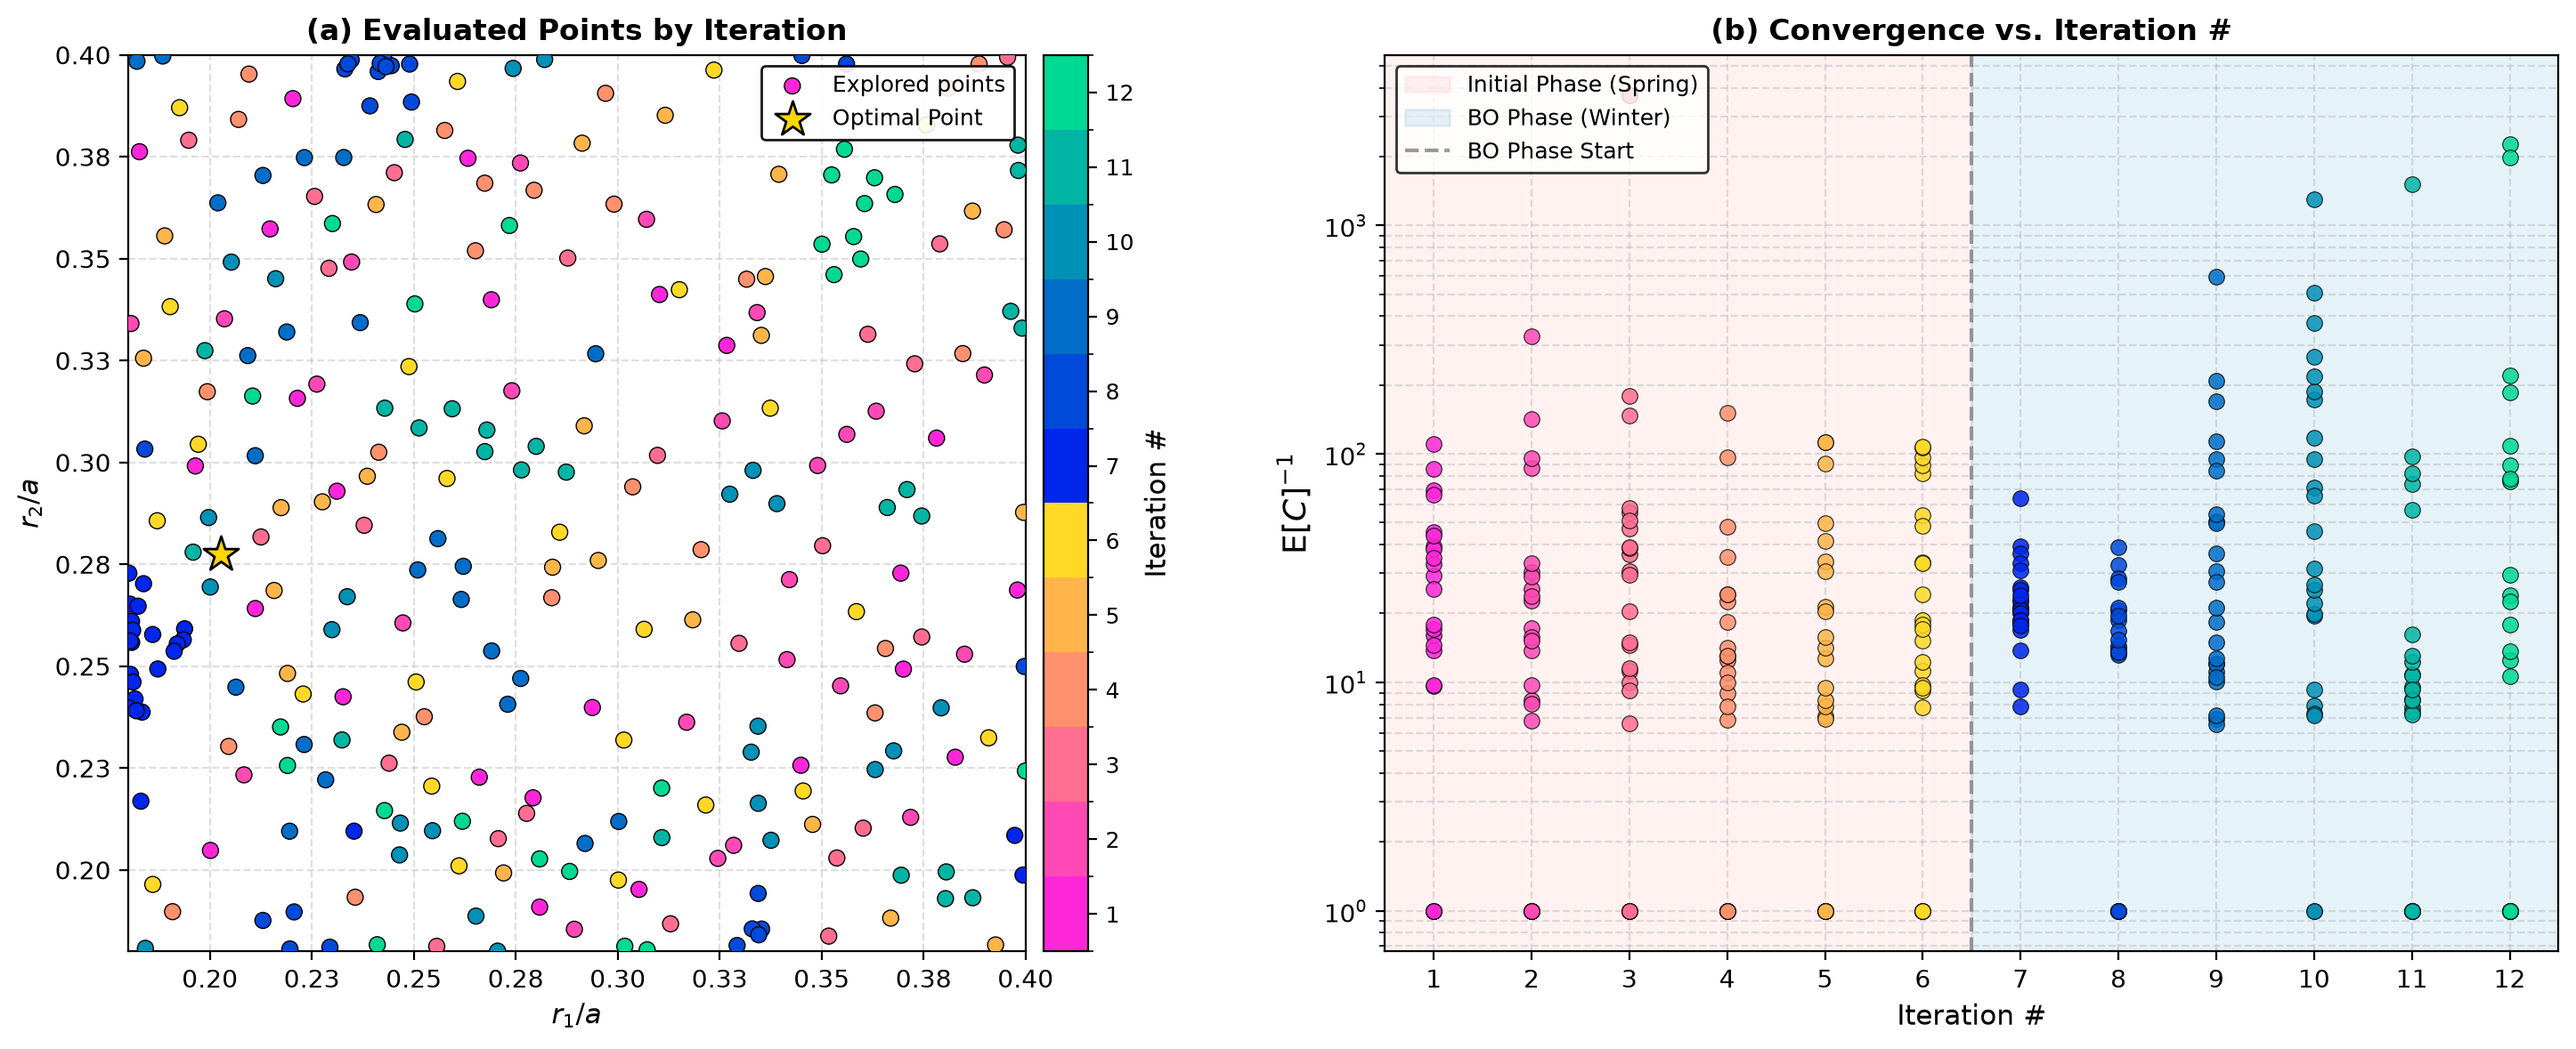
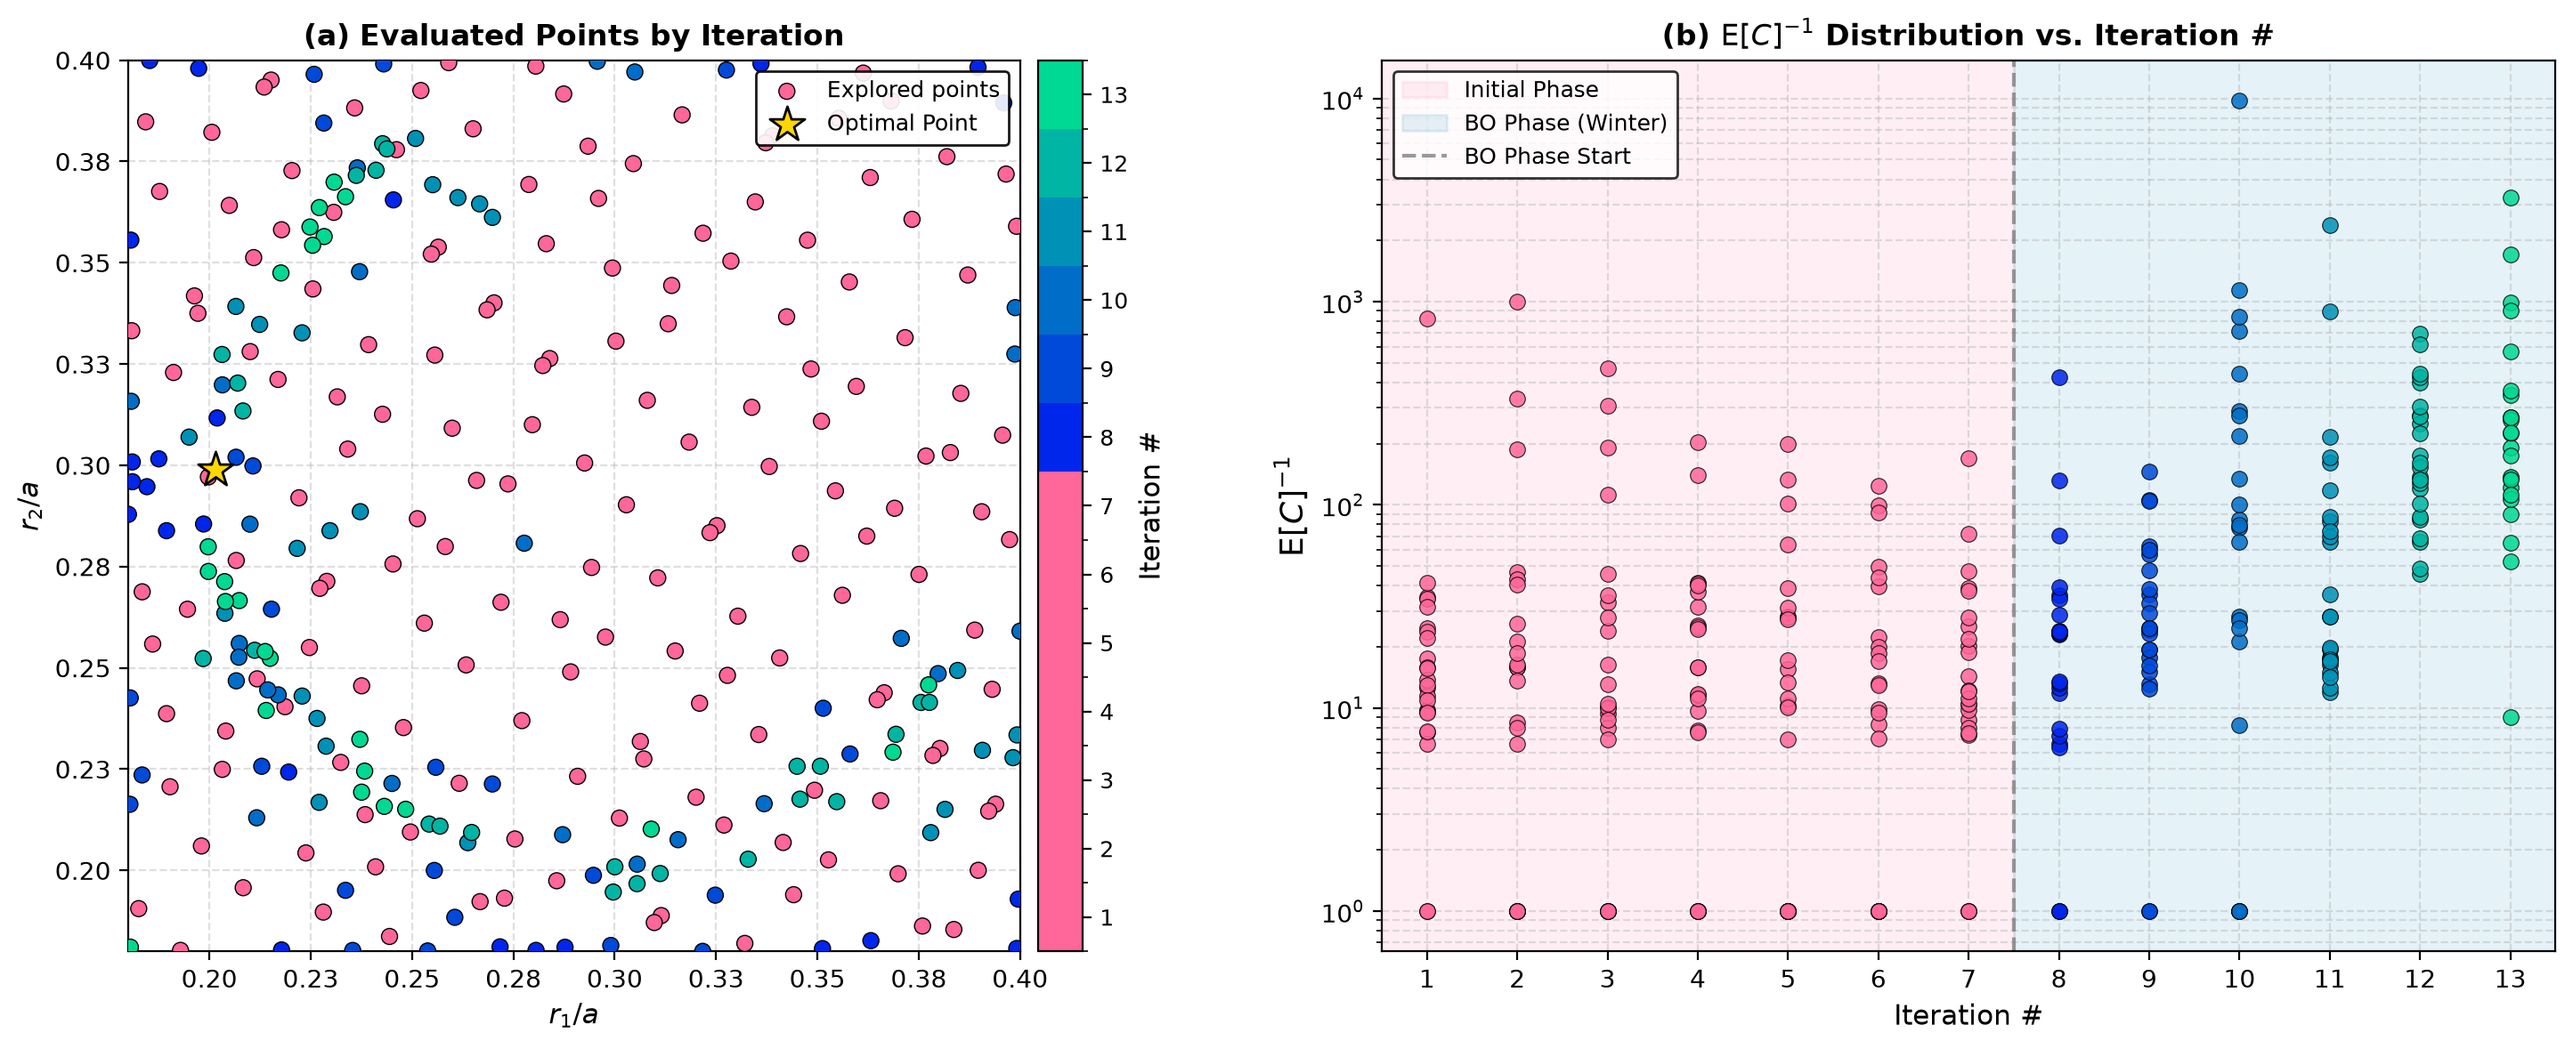
Unify initial points color in bo_convergence, remove redundant bo_iterations_map, update plot b title

Changed region(s): [[0.4983, 0.0, 0.9965, 0.9466], [0.0, 0.0, 0.4671, 0.9771], [0.7474, 0.9466, 0.7785, 0.9771]]

diff --git a/src/phc_nzi/bo.py b/src/phc_nzi/bo.py
@@ -894,7 +894,6 @@ class BayesianOptimizer:
         # Plot convergence curve, surrogate map, iterations map & group velocity map
         self._plot_convergence()
         self._plot_surrogate_map()
-        self._plot_iterations_map()
         self._plot_group_velocity_map()
 
         # Run final full k-path validation simulation
@@ -931,7 +930,7 @@ class BayesianOptimizer:
         n_initial_iters = max(initial_iters) if initial_iters else 1
         div_point_iter = n_initial_iters + 0.5
 
-        # Stack two colormaps: spring (initial sampling) + winter (active BO)
+        # Stack colors: single uniform color for initial sampling + winter colormap for active BO
         cmap_spring = plt.get_cmap("spring")
         cmap_winter = plt.get_cmap("winter")
 
@@ -941,10 +940,8 @@ class BayesianOptimizer:
         n_init = len(init_iters_list)
         n_bo = len(bo_iters_list)
 
-        if n_init == 1:
-            init_colors = [cmap_spring(0.5)]
-        else:
-            init_colors = [cmap_spring(v) for v in np.linspace(0.15, 0.85, n_init)]
+        single_init_color = cmap_spring(0.4)
+        init_colors = [single_init_color] * n_init
 
         if n_bo == 1:
             bo_colors = [cmap_winter(0.5)]
@@ -1042,7 +1039,7 @@ class BayesianOptimizer:
             ax1.legend(loc="upper left")
 
         # ---------------------------------------------------------
-        # Plot 2 (Right / (b)): Convergence vs. Iteration #
+        # Plot 2 (Right / (b)): E[C]^-1 Distribution vs. Iteration #
         # ---------------------------------------------------------
         for i, it in enumerate(unique_iters):
             mask = (iterations == it)
@@ -1050,15 +1047,15 @@ class BayesianOptimizer:
             it_foms = foms[mask]
             ax2.scatter([it] * len(it_foms), it_foms, color=c_it, s=40, edgecolors="black", linewidths=0.4, zorder=4, alpha=0.85)
 
-        # Background regions with subtle spring and winter tints
-        ax2.axvspan(min_iter - 0.5, div_point_iter, color=cmap_spring(0.5), alpha=0.10, label="Initial Phase (Spring)")
+        # Background regions with subtle initial and winter tints
+        ax2.axvspan(min_iter - 0.5, div_point_iter, color=single_init_color, alpha=0.10, label="Initial Phase")
         ax2.axvspan(div_point_iter, max_iter + 0.5, color=cmap_winter(0.5), alpha=0.10, label="BO Phase (Winter)")
         ax2.axvline(x=div_point_iter, color="gray", linestyle="--", alpha=0.8, label="BO Phase Start")
 
         ax2.set_yscale("log")
         ax2.set_xlabel("Iteration #", fontsize=11)
         ax2.set_ylabel(r"$\mathrm{E}[C]^{-1}$", fontsize=13)
-        ax2.set_title("(b) Convergence vs. Iteration #", fontsize=12, fontweight="bold")
+        ax2.set_title(r"(b) $\mathrm{E}[C]^{-1}$ Distribution vs. Iteration #", fontsize=12, fontweight="bold")
         ax2.set_xticks(np.arange(min_iter, max_iter + 1))
         ax2.set_xlim(min_iter - 0.5, max_iter + 0.5)
         ax2.grid(True, which="both", ls="--", alpha=0.4)
@@ -1269,147 +1266,7 @@ class BayesianOptimizer:
                 if verbose:
                     print(f"Note: Could not generate multi-dimensional surrogate plot: {e}")
 
-    def _plot_iterations_map(self, verbose: bool = True) -> None:
-        """
-        Generates and saves a standalone figure plotting evaluated parameter points
-        colored by Iteration / Generation # using a discrete colormap and discrete colorbar.
-        """
-        import matplotlib.colors as mcolors
-        from matplotlib.ticker import FormatStrFormatter
-        from mpl_toolkits.axes_grid1 import make_axes_locatable
 
-        if not hasattr(self.optimizer, "Xi") or not self.optimizer.Xi:
-            return
-
-        iterations_file = self.output_dir / "bo_iterations_map.png"
-
-        if len(self.param_names) == 2:
-            p1_name, p2_name = self.param_names[0], self.param_names[1]
-            b1 = self.param_bounds[0]
-            b2 = self.param_bounds[1]
-
-            Xi = np.array(self.optimizer.Xi)
-            yi = np.array(self.optimizer.yi)
-
-            generations_list = []
-            for idx, x_pt in enumerate(Xi):
-                matched_gen = 1
-                for r in self.records:
-                    r_pt = [r["params"][name] for name in self.param_names if name in r["params"]]
-                    if len(r_pt) == len(x_pt) and np.allclose(r_pt, x_pt, atol=1e-5):
-                        matched_gen = r.get("generation", 1)
-                        break
-                generations_list.append(matched_gen)
-
-            generations = np.array(generations_list)
-            unique_gens = sorted(list(set(generations)))
-            min_gen, max_gen = min(unique_gens), max(unique_gens)
-
-            # Determine divergence point (transition from initial sampling to active BO)
-            n_initial = self.opt_cfg.get("initial_points", 8)
-            initial_gens = [g for i, g in enumerate(generations_list) if i < n_initial]
-            n_initial_gens = max(initial_gens) if initial_gens else 1
-            div_point_gen = n_initial_gens + 0.5
-
-            # Stack two colormaps: spring (initial sampling) + winter (active BO)
-            cmap_spring = plt.get_cmap("spring")
-            cmap_winter = plt.get_cmap("winter")
-
-            init_gens_list = [g for g in unique_gens if g <= n_initial_gens]
-            bo_gens_list = [g for g in unique_gens if g > n_initial_gens]
-
-            n_init = len(init_gens_list)
-            n_bo = len(bo_gens_list)
-
-            if n_init == 1:
-                init_colors = [cmap_spring(0.5)]
-            else:
-                init_colors = [cmap_spring(v) for v in np.linspace(0.15, 0.85, n_init)]
-
-            if n_bo == 1:
-                bo_colors = [cmap_winter(0.5)]
-            elif n_bo > 1:
-                bo_colors = [cmap_winter(v) for v in np.linspace(0.15, 0.85, n_bo)]
-            else:
-                bo_colors = []
-
-            stacked_colors = init_colors + bo_colors
-            stacked_cmap = mcolors.ListedColormap(stacked_colors)
-            bounds_gen = np.arange(min_gen - 0.5, max_gen + 1.5, 1)
-            discrete_norm = mcolors.BoundaryNorm(bounds_gen, len(stacked_colors))
-
-            best_idx = int(np.argmin(yi))
-            best_x = Xi[best_idx]
-
-            p1_label = f"${p1_name[0]}_{{{p1_name[1:]}}}/a$" if len(p1_name) > 1 and p1_name[1:].isdigit() else f"${p1_name}/a$"
-            p2_label = f"${p2_name[0]}_{{{p2_name[1:]}}}/a$" if len(p2_name) > 1 and p2_name[1:].isdigit() else f"${p2_name}/a$"
-
-            fig, ax = plt.subplots(figsize=(7.5, 6.0))
-
-            sc = ax.scatter(
-                Xi[:, 0],
-                Xi[:, 1],
-                c=generations,
-                cmap=stacked_cmap,
-                norm=discrete_norm,
-                s=42,
-                edgecolors="black",
-                linewidths=0.5,
-                marker="o",
-                zorder=4,
-                label="Explored points",
-            )
-            ax.scatter(
-                best_x[0],
-                best_x[1],
-                c="gold",
-                edgecolors="black",
-                marker="*",
-                s=220,
-                zorder=6,
-                label="Optimal Point",
-            )
-
-            ax.set_xlabel(p1_label, fontsize=11)
-            ax.set_ylabel(p2_label, fontsize=11)
-            ax.set_title("Evaluated Points by Iteration", fontsize=12, fontweight="bold")
-            ax.set_xlim(float(b1[0]), float(b1[1]))
-            ax.set_ylim(float(b2[0]), float(b2[1]))
-            ax.set_aspect("equal", adjustable="box")
-            ax.grid(alpha=0.4, linestyle="--")
-            ax.xaxis.set_major_formatter(FormatStrFormatter('%.2f'))
-            ax.yaxis.set_major_formatter(FormatStrFormatter('%.2f'))
-
-            divider = make_axes_locatable(ax)
-            cax = divider.append_axes("right", size="5%", pad=0.1)
-            cbar = fig.colorbar(sc, cax=cax, ticks=np.arange(min_gen, max_gen + 1))
-            cbar.set_label("Iteration #", fontsize=11)
-            cbar.ax.tick_params(labelsize=9)
-
-            ax.legend(loc="upper right", facecolor="white", edgecolor="black", framealpha=0.9)
-
-            plt.tight_layout()
-            plt.savefig(iterations_file, dpi=200, bbox_inches="tight")
-            plt.close()
-            if verbose:
-                print(f"Saved iterations map plot to '{iterations_file}'")
-
-
-
-
-        else:
-            try:
-                from skopt.plots import plot_objective
-                fig, ax = plt.subplots(figsize=(10, 8))
-                plot_objective(self.optimizer, ax=ax)
-                plt.tight_layout()
-                plt.savefig(surrogate_file, dpi=200)
-                plt.close()
-                if verbose:
-                    print(f"Saved surrogate map plot to '{surrogate_file}'")
-            except Exception as e:
-                if verbose:
-                    print(f"Note: Could not generate multi-dimensional surrogate plot: {e}")
 
 
 
@@ -1684,7 +1541,6 @@ class BayesianOptimizer:
 
         self._plot_convergence()
         self._plot_surrogate_map(verbose=True)
-        self._plot_iterations_map(verbose=True)
         self._plot_group_velocity_map(verbose=True)
         print(f"Plotting complete! All figures saved inside '{self.output_dir}'")
 

diff --git a/README.md b/README.md
@@ -229,9 +229,8 @@ print("Optimal parameters:", results["optimal_parameters"])
 * **`bo_trajectory.data`**: Tabular log of evaluation parameter sets, gap costs, and Dirac frequencies.
 * **`bo_irreps.log`**: Detailed log of symmetry irrep mappings and triggered failsafe corrections.
 * **`bo_model.pkl`**: Serialized `skopt` Gaussian Process model checkpoint.
-* **`bo_convergence.png`**: Convergence trajectory plot (cost vs. evaluation count).
+* **`bo_convergence.png`**: Convergence trajectory plot and parameter points colored by iteration.
 * **`bo_surrogate_map.png`**: 2-panel figure showing evaluated parameter FOM and Gaussian Process surrogate landscape.
-* **`bo_iterations_map.png`**: Parameter search space map of evaluated points colored by discrete generation / iteration number.
 * **`bo_group_velocity_map.png`**: Group velocity distribution and top-band $v_g$ landscape.
 * **`best_params.json`**: Structured JSON containing the optimal parameters found.
 * **`band_structure_optimal.png`**: Full k-path band structure plot evaluated at the optimal parameters.
